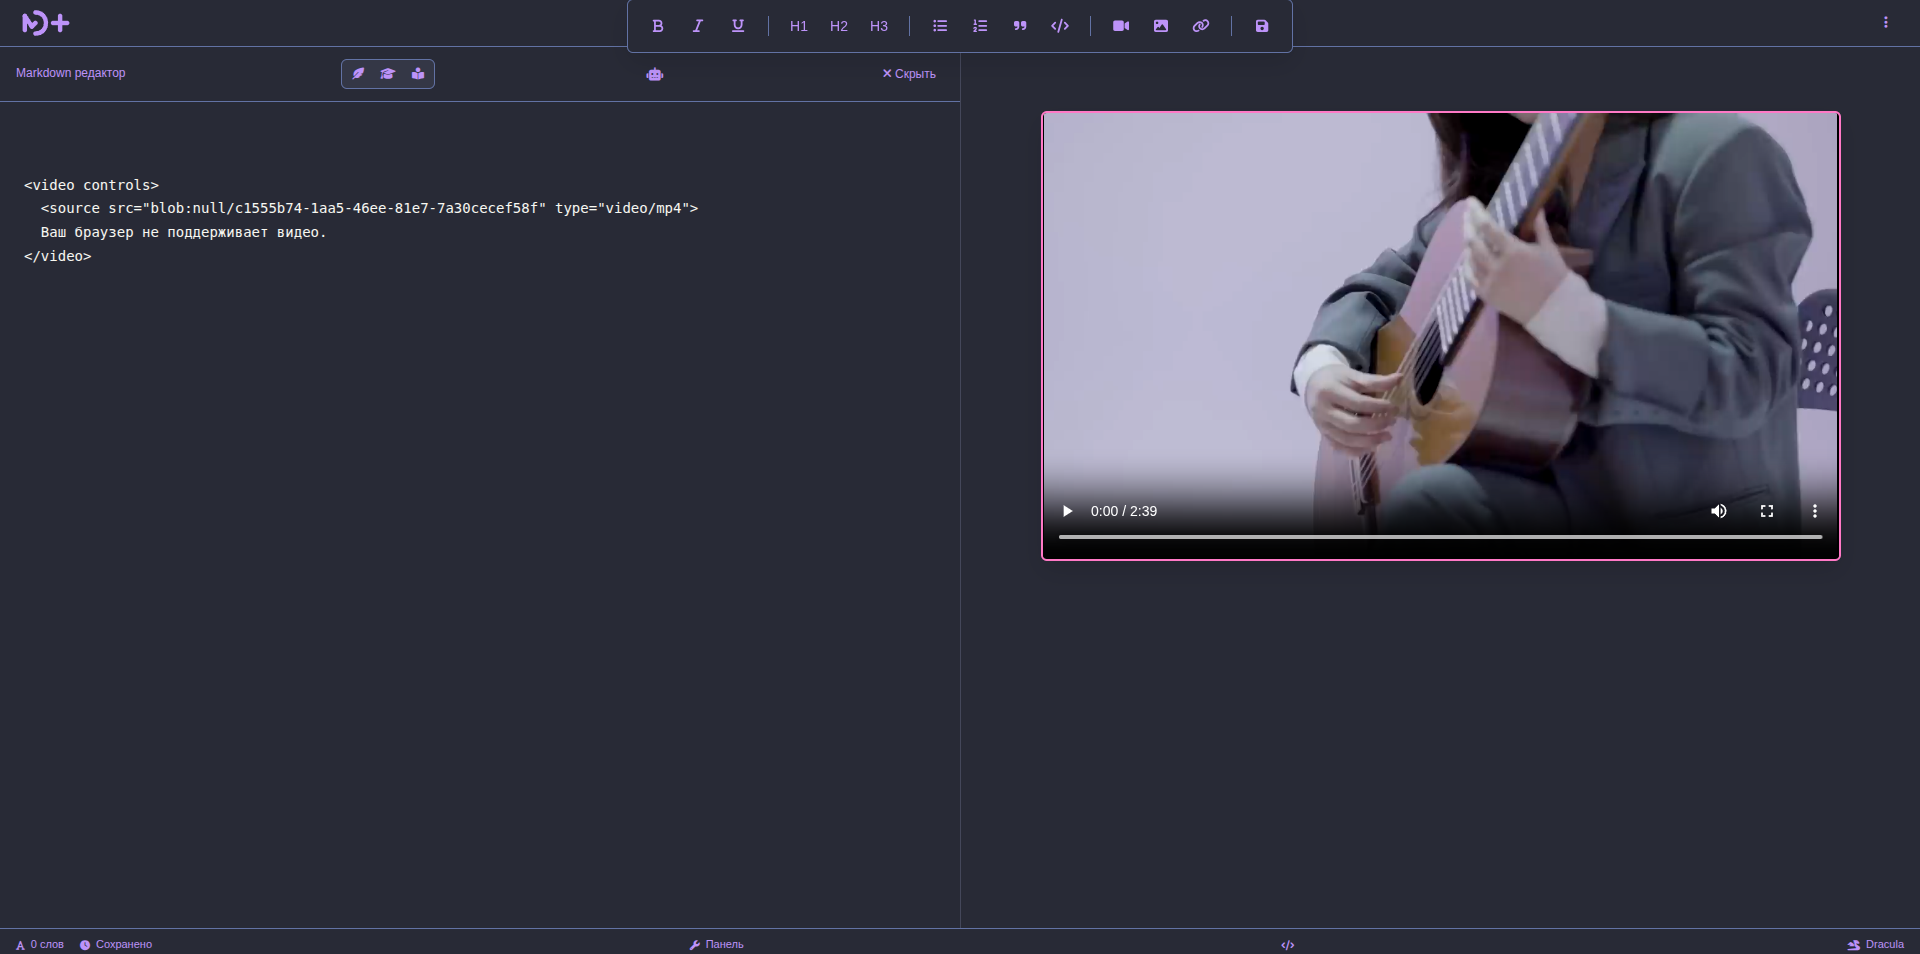
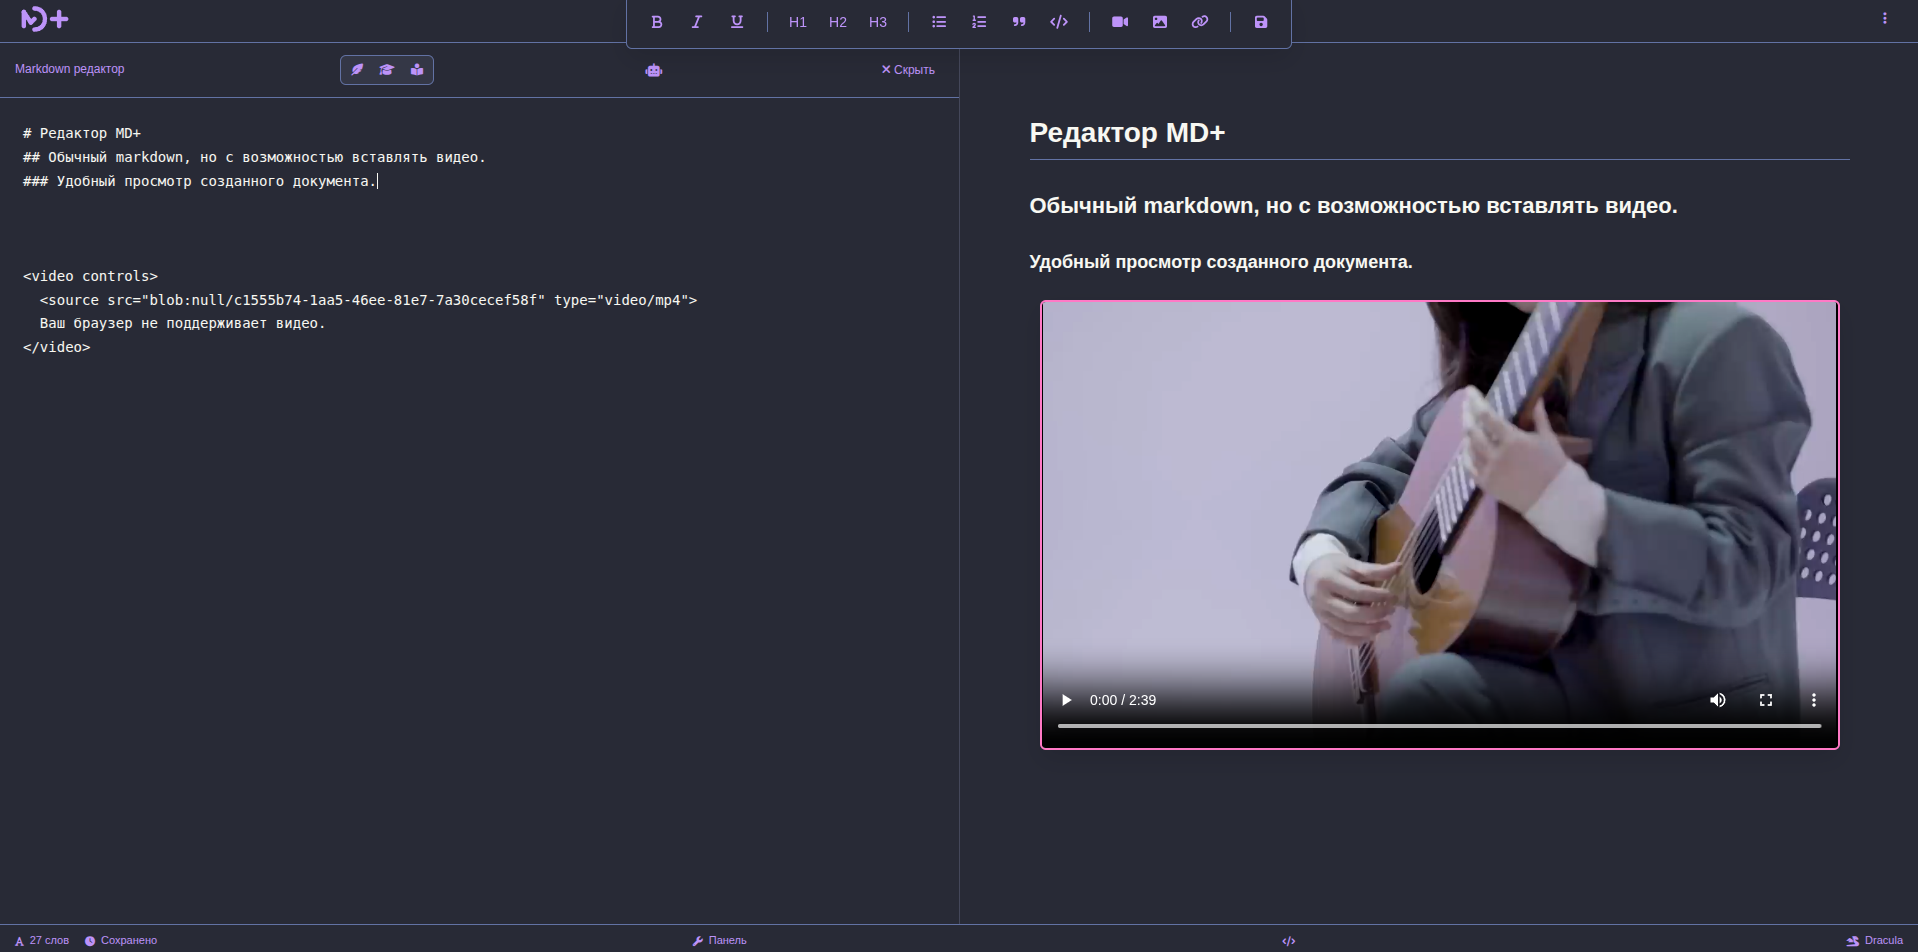
4 неплохой вариант

diff --git a/index.html b/index.html
@@ -4,6 +4,8 @@
 <meta charset="UTF-8" />
 <meta name="viewport" content="width=device-width, initial-scale=1.0" />
 <link href="https://fonts.googleapis.com/css2?family=Comfortaa:wght@300;400;500;600;700&family=Inter:wght@400;500;600&family=JetBrains+Mono:wght@400;500&display=swap" rel="stylesheet">
+<link rel="icon" type="image/svg+xml" href="favicon.svg">
+<link rel="apple-touch-icon" href="favicon.svg">
 <title>AI-разработчик — веб-приложения за дни, а не месяцы</title>
 <script src="https://cdn.tailwindcss.com"></script>
 <script>
@@ -622,8 +624,19 @@
 <!-- NAV -->
 <header class="fixed top-0 left-0 right-0 z-50 backdrop-blur-md bg-ink/70 border-b border-white/5">
   <div class="max-w-6xl mx-auto px-6 py-4 flex items-center justify-between">
-    <a href="#" class="font-display font-bold text-lg tracking-tight">
-      <span class="text-neon">./</span>ai_builder
+    <a href="#" class="inline-flex items-center" aria-label="StanKrav">
+      <svg width="200" height="32" viewBox="0 0 180 32" fill="none" xmlns="http://www.w3.org/2000/svg" role="img">
+        <!-- две косые черты -->
+        <rect x="0"  y="6" width="3" height="20" rx="1.5" fill="#00FF41" transform="skewX(-20)"/>
+        <rect x="8"  y="6" width="3" height="16" rx="1.5" fill="#00FF41" transform="skewX(-20)"/>
+        <!-- текст StanKrav -->
+        <text x="14" y="22"
+              font-family="'Comfortaa'"
+              font-size="18" font-weight="500"
+              letter-spacing="0.5"
+              fill="#FFFFFF"
+              transform="skewX(-8)">StanKrav</text>
+      </svg>
     </a>
     <nav class="hidden md:flex items-center gap-8 text-sm text-white/60">
       <a href="#apps" class="hover:text-white transition">Мои приложения</a>
@@ -804,7 +817,7 @@
                     </div>
                   </div>
 
-      <!-- ... повторить для app2, app3 -->
+ 
     </div>
   </div>
 </section>
@@ -838,17 +851,32 @@
 
     <div class="mt-12 grid md:grid-cols-3 gap-6">
       <div class="glass rounded-xl p-6 tilt">
-        <div class="text-neon text-2xl mb-2">⚡</div>
+        <div class="text-neon text-2xl mb-2"><svg width="28" height="28" viewBox="0 0 24 24" fill="none" xmlns="http://www.w3.org/2000/svg">
+          <path d="M13 2L4 14h7l-1 8 9-12h-7l1-8z"
+                stroke="#00FF41" stroke-width="1.5"
+                stroke-linejoin="round" stroke-linecap="round"/>
+        </svg></div>
         <h3 class="font-semibold mb-2">Скорость</h3>
         <p class="text-white/50 text-sm">То, что студия делает месяц, я делаю за неделю.</p>
       </div>
       <div class="glass rounded-xl p-6 tilt">
-        <div class="text-neon text-2xl mb-2">🎯</div>
+        <div class="text-neon text-2xl mb-2"><svg width="28" height="28" viewBox="0 0 24 24" fill="none" xmlns="http://www.w3.org/2000/svg">
+          <circle cx="12" cy="12" r="9" stroke="#00FF41" stroke-width="1.5"/>
+          <circle cx="12" cy="12" r="5" stroke="#00FF41" stroke-width="1.5"/>
+          <circle cx="12" cy="12" r="1.5" fill="#00FF41"/>
+        </svg></div>
         <h3 class="font-semibold mb-2">Фокус на бизнесе</h3>
         <p class="text-white/50 text-sm">Мне важно, чтобы сайт приносил заявки, а не просто красиво выглядел.</p>
       </div>
       <div class="glass rounded-xl p-6 tilt">
-        <div class="text-neon text-2xl mb-2">🔓</div>
+        <div class="text-neon text-2xl mb-2"><svg width="28" height="28" viewBox="0 0 24 24" fill="none" xmlns="http://www.w3.org/2000/svg">
+          <rect x="5" y="11" width="14" height="10" rx="2"
+                stroke="#00FF41" stroke-width="1.5"/>
+          <path d="M8 11V7a4 4 0 0 1 7.5-2"
+                stroke="#00FF41" stroke-width="1.5"
+                stroke-linecap="round"/>
+          <circle cx="12" cy="16" r="1.5" fill="#00FF41"/>
+        </svg></div>
         <h3 class="font-semibold mb-2">Без зависимости</h3>
         <p class="text-white/50 text-sm">Код и доступы передаю вам. Вы владеете продуктом.</p>
       </div>
@@ -1078,32 +1106,54 @@
 <footer class="border-t border-white/5 py-10 px-6">
   <div class="max-w-6xl mx-auto flex flex-col md:flex-row justify-between items-center gap-4 text-sm text-white/40">
     <div class="font-display font-bold text-white">
-      <span class="text-neon">./</span>ai_builder
+      <span class="text-neon"><svg width="150" height="24" viewBox="0 0 180 32" fill="none" xmlns="http://www.w3.org/2000/svg" role="img">
+              <!-- две косые черты -->
+              <rect x="0"  y="6" width="3" height="20" rx="1.5" fill="#00FF41" transform="skewX(-20)"/>
+              <rect x="8"  y="6" width="3" height="16" rx="1.5" fill="#00FF41" transform="skewX(-20)"/>
+              <!-- текст StanKrav -->
+              <text x="14" y="22"
+                    font-family="'Comfortaa'"
+                    font-size="18" font-weight="500"
+                    letter-spacing="0.5"
+                    fill="#FFFFFF"
+                    transform="skewX(-8)">StanKrav</text>
+            </svg></span>
     </div>
     <div class="flex gap-6">
-      <a href="#" class="hover:text-neon transition">GitHub</a>
+      <a href="https://github.com/StasKrav" class="hover:text-neon transition">GitHub</a>
       <a href="#" class="hover:text-neon transition">Telegram</a>
-      <a href="mailto:hi@example.com" class="hover:text-neon transition">Email</a>
+      <a href="mailto:krav.stan@yandex.ru" class="hover:text-neon transition">Email</a>
     </div>
     <div>© 2026 · Сделано с ИИ</div>
   </div>
 </footer>
 
+
 <!-- ИИ-ЧАТ -->
 <div id="chat-widget">
   <div id="chat-window">
     <div id="chat-header">
-      <span>ИИ-консультант</span>
-      <button onclick="toggleChat()" style="background:none;border:none;color:#fff;cursor:pointer;font-size:18px;">×</button>
+      <div style="display:flex; align-items:center;">
+        <div class="chat-avatar">AI</div>
+        <div class="chat-title">
+          <div class="chat-name">AI-консультант</div>
+          <div class="chat-status">онлайн</div>
+        </div>
+      </div>
+      <button id="chat-close" onclick="toggleChat()">×</button>
     </div>
+
     <div id="chat-messages">
       <div class="msg-bot">Привет! Я ИИ-помощник. Спросите меня о услугах, сроках или ценах — отвечу сразу.</div>
     </div>
+
     <div id="chat-input-area">
-      <input id="chat-input" type="text" placeholder="Напишите вопрос..." onkeypress="if(event.key==='Enter') sendMessage()" />
+      <input id="chat-input" type="text" placeholder="Напишите вопрос..."
+             onkeypress="if(event.key==='Enter') sendMessage()" />
       <button id="chat-send" onclick="sendMessage()">→</button>
     </div>
   </div>
+
   <button id="chat-toggle" onclick="toggleChat()">💬</button>
 </div>
 
@@ -1254,28 +1304,41 @@
     const input = document.getElementById('chat-input');
     const text = input.value.trim();
     if (!text) return;
-
+  
     const messages = document.getElementById('chat-messages');
+  
+    // Сообщение пользователя
     const userMsg = document.createElement('div');
     userMsg.className = 'msg-user';
     userMsg.textContent = text;
     messages.appendChild(userMsg);
     input.value = '';
-
+    messages.scrollTop = messages.scrollHeight;
+  
+    // Индикатор "печатает..."
+    const typing = document.createElement('div');
+    typing.className = 'typing';
+    typing.innerHTML = '<span></span><span></span><span></span>';
+    messages.appendChild(typing);
+    messages.scrollTop = messages.scrollHeight;
+  
+    // Ответ бота
     setTimeout(() => {
+      typing.remove();
+  
       const botMsg = document.createElement('div');
       botMsg.className = 'msg-bot';
+  
       const lower = text.toLowerCase();
       let reply = demoResponses['по умолчанию'];
       if (lower.includes('цен') || lower.includes('стоит') || lower.includes('стоимость')) reply = demoResponses['цена'];
       else if (lower.includes('срок') || lower.includes('быстро') || lower.includes('долго')) reply = demoResponses['срок'];
       else if (lower.includes('чат') || lower.includes('ии') || lower.includes('нейросет')) reply = demoResponses['чат'];
+  
       botMsg.textContent = reply;
       messages.appendChild(botMsg);
       messages.scrollTop = messages.scrollHeight;
-    }, 500);
-
-    messages.scrollTop = messages.scrollHeight;
+    }, 1100);
   }
 </script>
 
